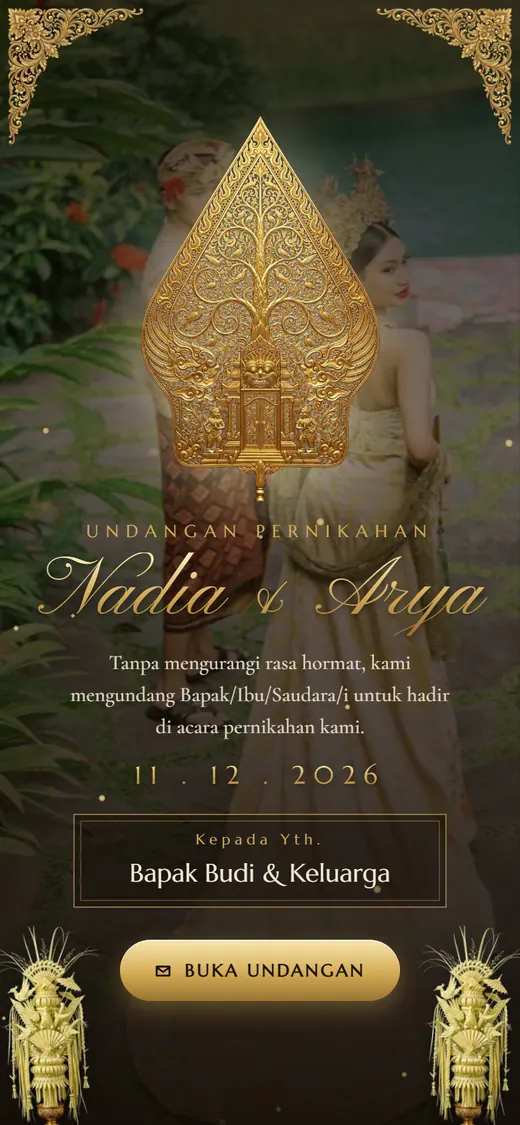
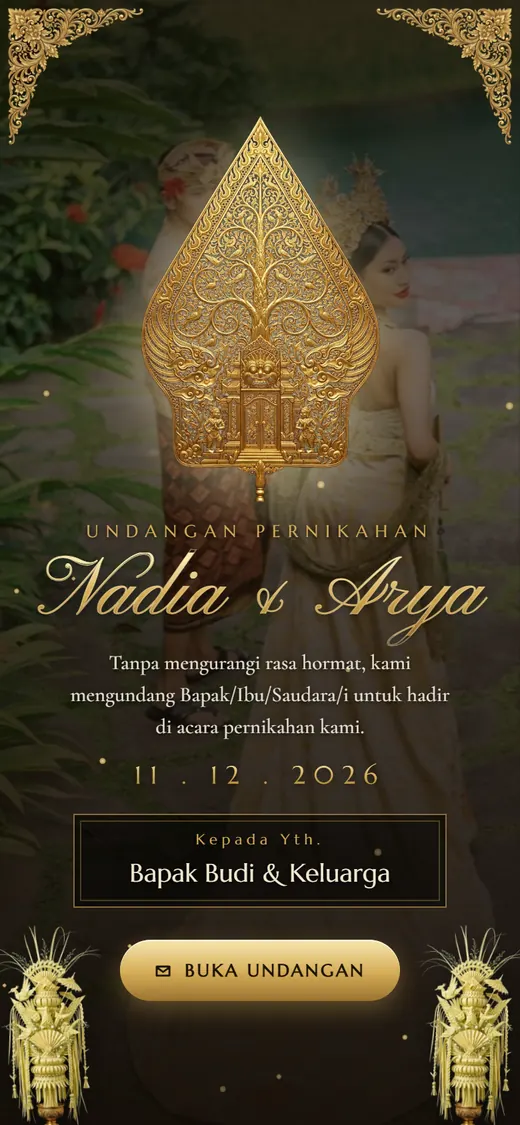
Sunda & Jawa: kontras teks diperjelas

diff --git a/demo-adat-sunda/index.html b/demo-adat-sunda/index.html
@@ -140,6 +140,21 @@ h2.sc{font-size:clamp(40px,12vw,54px);line-height:1.1}
 @keyframes sgFloat{to{translate:0 -6px;filter:drop-shadow(0 10px 26px rgba(247,231,176,.65))}}
 @keyframes sway{from{rotate:-3deg}to{rotate:3deg}}
 @keyframes rise{0%{opacity:0;translate:0 0}10%{opacity:.9}90%{opacity:.6}100%{opacity:0;translate:14px -105vh}}
+/* ===== kontras (dibaca nyaman di HP): motif diredam di bawah teks, emas lebih gelap di panel terang, teks lebih tegas ===== */
+.sec.dk{background:linear-gradient(rgba(17,23,18,.80),rgba(17,23,18,.80)),radial-gradient(ellipse at 50% 0,rgba(212,171,85,.12),transparent 60%),url(aset/motif.webp) 0 0/220px,var(--dk);color:#f6efdc}
+.sec.lt{background:linear-gradient(rgba(248,242,228,.88),rgba(248,242,228,.88)),url(aset/motif.webp) 0 0/220px,var(--cream);color:#231f14}
+.sec.lt p,.sec.lt .sub,.sec.lt .lead,.sec.lt .ev-p,.sec.lt .it p,.sec.lt .pp p{color:#231f14}
+.sub{opacity:1}.sec.dk .sub,.sec.dk .lead,.sec.dk .qt{color:#f3ead2}
+.sec.lt h2.sc,.sec.lt .nick,.sec.lt .amp,.ev-t,.it h3{background:none;-webkit-background-clip:border-box;background-clip:border-box;color:#8a5f12;filter:none}
+.sec.lt .src,.sec.lt .eb,.it .yr,.ev-h,.pp a,.sec.lt label{color:#7a5410}
+.sec.dk .src,.sec.dk .eb{color:#e8c877}
+.count span,.sd span,.det h3{color:#e8c877}
+.cover .cnote,.cover .to,.cover .eb,.cover .gn,.end .lead,.end .eb{text-shadow:0 1px 3px rgba(0,0,0,.9),0 0 14px rgba(0,0,0,.6)}
+.cover .cnote,.end .lead{color:#fbf5e6}
+.shade{background:linear-gradient(180deg,rgba(10,14,11,.86) 0%,rgba(10,14,11,.62) 34%,rgba(10,14,11,.80) 60%,rgba(10,14,11,.96) 100%)}
+.gbox{background:rgba(0,0,0,.55)}
+h2.sc,.nm,.ev-t,.it h3,.nick,.amp{-webkit-text-stroke:.5px currentColor;paint-order:stroke fill}
+.nm.gold,.sec.dk h2.sc{-webkit-text-stroke:.4px rgba(247,231,176,.5)}
 @media (prefers-reduced-motion:reduce){*,*::before,*::after{animation:none!important;transition:none!important}.rv .w{opacity:1!important}.rv:not(.in) .crn .c,.rv:not(.in) .kj .k,.rv:not(.in) .arch .frm{opacity:1;translate:none}.rv:not(.in) .div{clip-path:none}}
 
 </style>

diff --git a/demo-adat-jawa/index.html b/demo-adat-jawa/index.html
@@ -142,6 +142,21 @@ h2.sc{font-size:clamp(40px,12vw,54px);line-height:1.1}
 @keyframes sgFloat{to{translate:0 -6px;filter:drop-shadow(0 10px 26px rgba(247,231,176,.65))}}
 @keyframes sway{from{rotate:-3deg}to{rotate:3deg}}
 @keyframes rise{0%{opacity:0;translate:0 0}10%{opacity:.9}90%{opacity:.6}100%{opacity:0;translate:14px -105vh}}
+/* ===== kontras (dibaca nyaman di HP): motif diredam di bawah teks, emas lebih gelap di panel terang, teks lebih tegas ===== */
+.sec.dk{background:linear-gradient(rgba(26,18,12,.80),rgba(26,18,12,.80)),radial-gradient(ellipse at 50% 0,rgba(212,171,85,.12),transparent 60%),url(aset/motif.webp) 0 0/220px,var(--dk);color:#f6efdc}
+.sec.lt{background:linear-gradient(rgba(246,236,214,.88),rgba(246,236,214,.88)),url(aset/motif.webp) 0 0/220px,var(--cream);color:#2a1d10}
+.sec.lt p,.sec.lt .sub,.sec.lt .lead,.sec.lt .ev-p,.sec.lt .it p,.sec.lt .pp p{color:#2a1d10}
+.sub{opacity:1}.sec.dk .sub,.sec.dk .lead,.sec.dk .qt{color:#f3ead2}
+.sec.lt h2.sc,.sec.lt .nick,.sec.lt .amp,.ev-t,.it h3{background:none;-webkit-background-clip:border-box;background-clip:border-box;color:#835811;filter:none}
+.sec.lt .src,.sec.lt .eb,.it .yr,.ev-h,.pp a,.sec.lt label{color:#734c0e}
+.sec.dk .src,.sec.dk .eb{color:#e8c877}
+.count span,.sd span,.det h3{color:#e8c877}
+.cover .cnote,.cover .to,.cover .eb,.cover .gn,.end .lead,.end .eb{text-shadow:0 1px 3px rgba(0,0,0,.9),0 0 14px rgba(0,0,0,.6)}
+.cover .cnote,.end .lead{color:#fbf5e6}
+.shade{background:linear-gradient(180deg,rgba(18,12,7,.86) 0%,rgba(18,12,7,.62) 34%,rgba(18,12,7,.80) 60%,rgba(18,12,7,.96) 100%)}
+.gbox{background:rgba(0,0,0,.55)}
+h2.sc,.nm,.ev-t,.it h3,.nick,.amp{-webkit-text-stroke:.5px currentColor;paint-order:stroke fill}
+.nm.gold,.sec.dk h2.sc{-webkit-text-stroke:.4px rgba(247,231,176,.5)}
 @media (prefers-reduced-motion:reduce){*,*::before,*::after{animation:none!important;transition:none!important}.rv .w{opacity:1!important}.rv:not(.in) .crn .c,.rv:not(.in) .kj .k,.rv:not(.in) .arch .frm{opacity:1;translate:none}.rv:not(.in) .div{clip-path:none}}
 
 </style>
